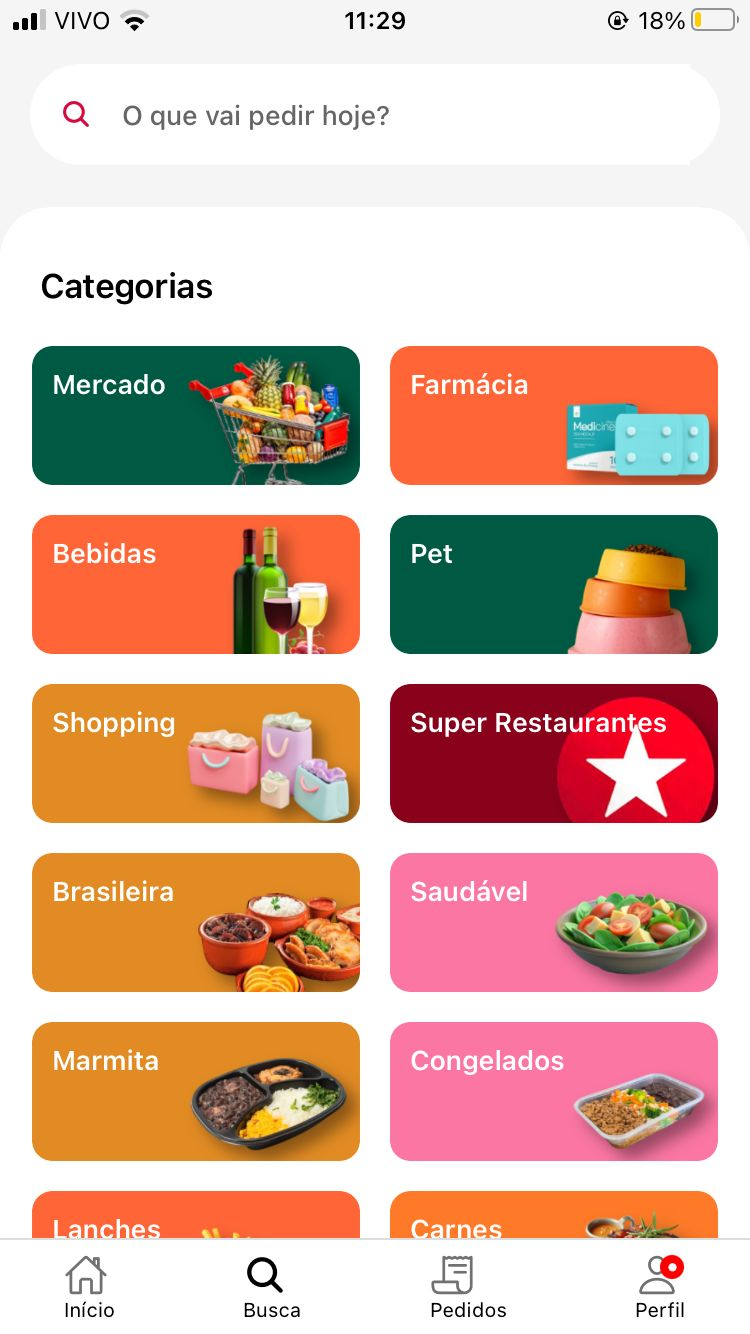
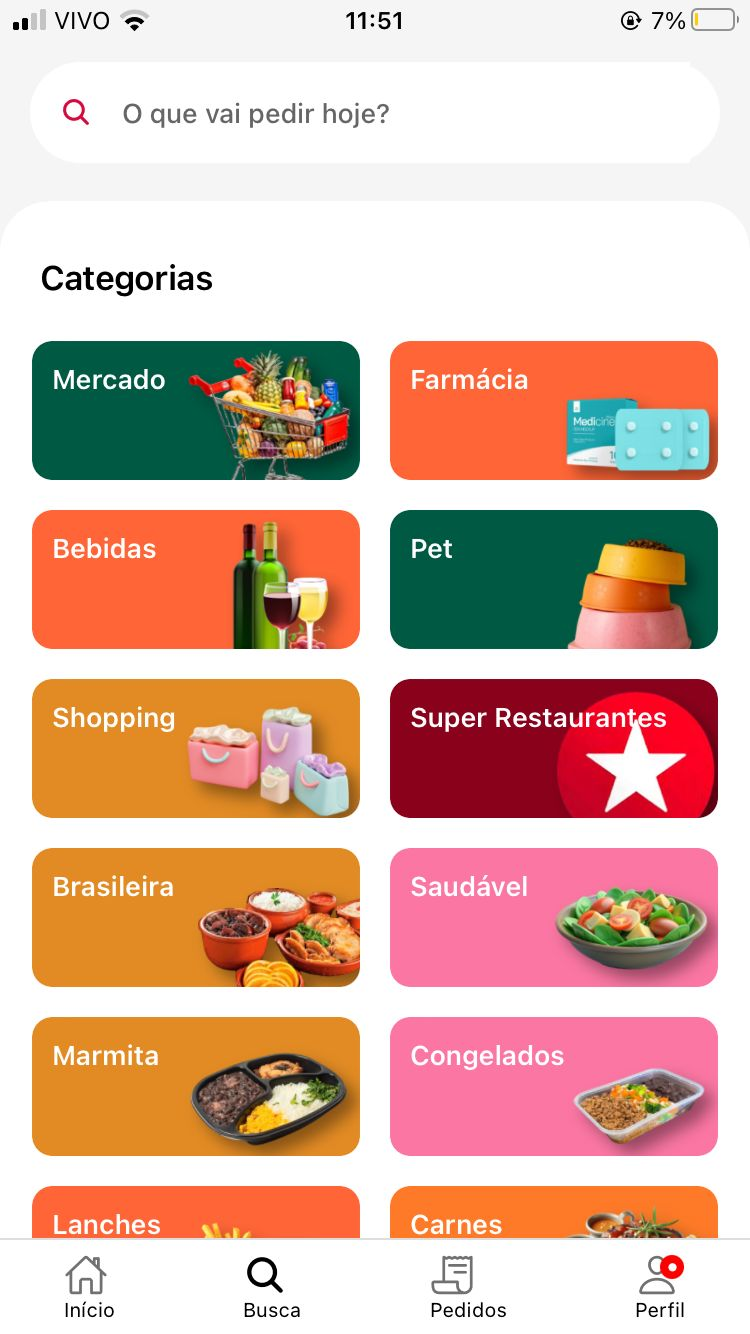
Ajustando detalhes em ambas as telas

diff --git a/src/screens/Busca/styles.ts b/src/screens/Busca/styles.ts
@@ -12,7 +12,7 @@ export const styles = StyleSheet.create({
         alignItems: "center",
         backgroundColor: "#fff",
         borderRadius: 30,
-        marginTop: 32,
+        marginTop: 31,
         marginHorizontal: 15,
         paddingHorizontal: 15,
     },
@@ -26,13 +26,13 @@ export const styles = StyleSheet.create({
     },
     categorias: {
         backgroundColor: "#ffffff",
-        marginTop: 21,
+        marginTop: 19,
         borderTopRightRadius: 25,
         borderTopLeftRadius: 25,
 
     },
     categoriasView: {
-        marginTop: 20,
+        marginTop: 21.5,
         flexDirection: "row",
         flexWrap: "wrap",
         gap: 15,
@@ -40,7 +40,7 @@ export const styles = StyleSheet.create({
     },
 
     titulo: {
-        marginTop: 29,
+        marginTop: 28,
         fontWeight: 600,
         fontSize: 17,
         marginLeft: 20

diff --git a/src/screens/Inicio/index.tsx b/src/screens/Inicio/index.tsx
@@ -53,7 +53,7 @@ export const Inicio = () => {
             </View>
 
             <View style={styles.taxaTexto}>
-                <View>
+                <View style={styles.taxaTituloSub}>
                     <Text style={styles.taxaTitulo}>Taxa na faixa</Text>
                     <Text style={styles.taxaSubtitulo}>A taxa é cortesia pra você</Text>
                 </View>

diff --git a/src/screens/Inicio/styles.ts b/src/screens/Inicio/styles.ts
@@ -82,6 +82,9 @@ export const styles = StyleSheet.create({
         color: "#6e6e6e",
         fontSize: 13
     },
+    taxaTituloSub:{
+        gap:1
+    },
     lojas: {
         flexDirection: "row",
         paddingHorizontal: 8

diff --git a/App.tsx b/App.tsx
@@ -6,7 +6,7 @@ import { Busca } from "./src/screens/Busca";
 export default function App() {
   return (
    //<Inicio />
-    <Busca/>
+   <Busca/>
 
   )
 }
